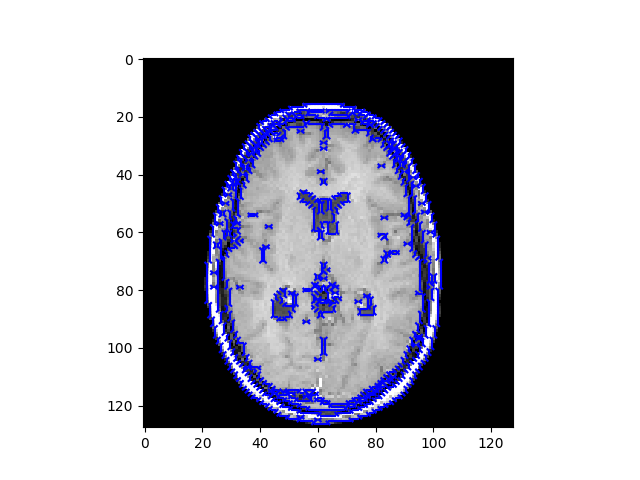
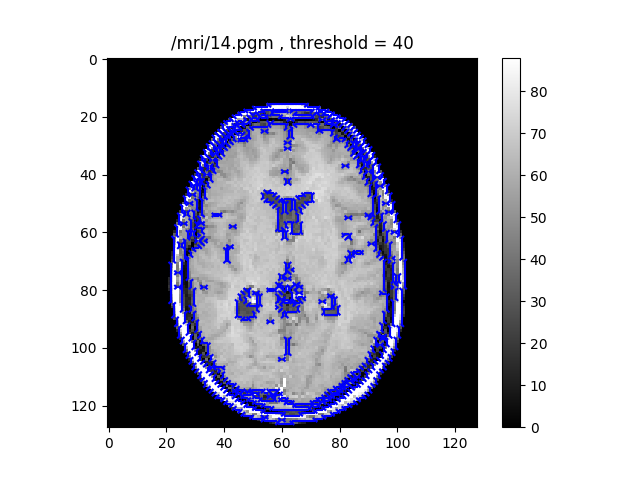
added title and colorbar.

Changed region(s): [[0.125, 0.0938, 0.875, 0.9375], [0.25, 0.0625, 0.6562, 0.125], [0.2188, 0.9062, 0.2812, 0.9375]]

diff --git a/hw5/fig_mri_contour.py b/hw5/fig_mri_contour.py
@@ -43,14 +43,15 @@ def main():
     j = j.reshape((-1,))
     c = image.reshape((-1,))
     #ax.scatter(j, i, c=c, cmap='gray')
-    ax.imshow(image, cmap='gray')
+    main_image = ax.imshow(image, cmap='gray')
 
     for n in range(width-1):
         for m in range(height-1):
             bit = bit_pattern(thresholded[n,m-1], thresholded[n+1,m-1], thresholded[n+1, m], thresholded[n, m])
             lookup(bit, m, n)
 
-
+    plt.title(mri_path[-11:] + " , threshold = " + str(threshold))
+    plt.colorbar(main_image)
     #plt.show()
     plt.savefig(sys.argv[3])
 
